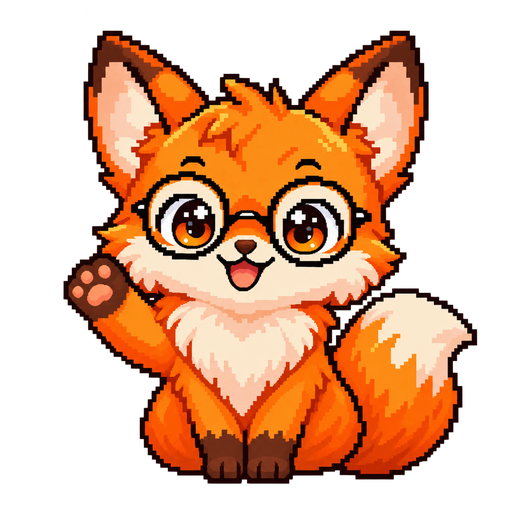
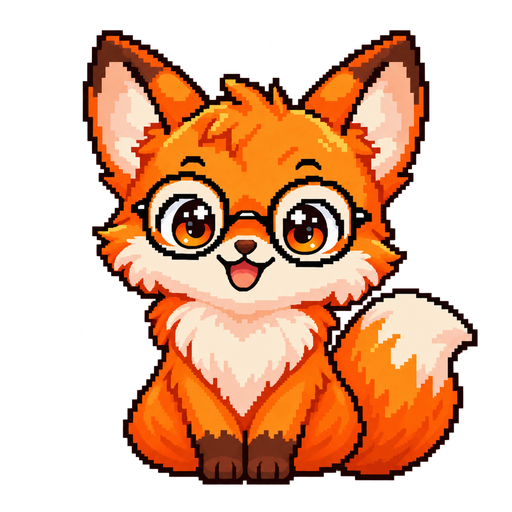
Add evidence-based competitor radar

diff --git a/frontend/src/competitorRadar.tsx b/frontend/src/competitorRadar.tsx
@@ -1,0 +1,106 @@
+import { useMemo, useState } from 'react';
+import { Award, Check, ChevronDown, ExternalLink, Plus, Radar, Scale, ShieldCheck, Sparkles, Trash2, X } from 'lucide-react';
+
+type Language = 'ru' | 'en';
+type Plan = {
+  id: string; company: string; name: string; price: number; vcpu: number; ram: number; disk: number;
+  diskType: string; traffic: string; speed: number; ddos: boolean; backup: boolean; sla: number;
+  support: string; location: string; ipv4Included: boolean; source: string; checkedAt: string;
+};
+
+const seed: Plan[] = [
+  { id: 'aeza-msk-4', company: 'Aéza', name: 'Cloud 4 · Москва', price: 1590, vcpu: 4, ram: 8, disk: 120, diskType: 'NVMe', traffic: 'Безлимитный', speed: 1000, ddos: true, backup: true, sla: 99.9, support: '24/7', location: 'Москва', ipv4Included: true, source: 'https://aeza.net/', checkedAt: '2026-10-25' },
+  { id: 'selectel-cloud-4', company: 'Selectel', name: 'Cloud 4', price: 1890, vcpu: 4, ram: 8, disk: 100, diskType: 'SSD', traffic: '3 ТБ', speed: 500, ddos: true, backup: false, sla: 99.9, support: '24/7', location: 'Москва', ipv4Included: false, source: 'https://selectel.ru/', checkedAt: '2026-10-25' },
+  { id: 'timeweb-pro', company: 'Timeweb Cloud', name: 'Cloud Pro', price: 1499, vcpu: 4, ram: 8, disk: 100, diskType: 'NVMe', traffic: 'Безлимитный', speed: 200, ddos: true, backup: false, sla: 99.9, support: '24/7', location: 'Санкт-Петербург', ipv4Included: true, source: 'https://timeweb.cloud/', checkedAt: '2026-10-25' },
+  { id: 'reg-cloud-4', company: 'REG.RU', name: 'High CPU 4', price: 2110, vcpu: 4, ram: 8, disk: 100, diskType: 'SSD', traffic: 'Безлимитный', speed: 500, ddos: false, backup: true, sla: 99.5, support: 'Рабочее время', location: 'Москва', ipv4Included: true, source: 'https://www.reg.ru/cloud/', checkedAt: '2026-10-25' },
+];
+
+const loadPlans = () => {
+  try { const saved = localStorage.getItem('aeza-competitor-plans-v1'); return saved ? JSON.parse(saved) as Plan[] : seed; }
+  catch { return seed; }
+};
+const pct = (value: number) => `${Math.abs(Math.round(value))}%`;
+
+function score(plan: Plan) {
+  const price = Math.min(100, 100000 / Math.max(plan.price, 1));
+  const capacity = Math.min(100, plan.vcpu * 10 + plan.ram * 4 + plan.disk / 5);
+  const reliability = Math.min(100, (plan.sla - 98) * 35 + (plan.ddos ? 18 : 0) + (plan.backup ? 12 : 0));
+  const service = (plan.support === '24/7' ? 100 : 55) * .7 + (plan.ipv4Included ? 100 : 40) * .3;
+  return Math.round(price * .35 + capacity * .30 + reliability * .20 + service * .10 + 100 * .05);
+}
+
+function argumentsFor(base: Plan, rival: Plan, ru: boolean) {
+  const advantages: string[] = [], gaps: string[] = [];
+  const priceDelta = ((rival.price - base.price) / rival.price) * 100;
+  if (priceDelta > 1) advantages.push(ru ? `Aéza дешевле на ${pct(priceDelta)}: экономия ${rival.price - base.price} ₽ в месяц.` : `Aéza is ${pct(priceDelta)} cheaper, saving ₽${rival.price - base.price} per month.`);
+  if (priceDelta < -1) gaps.push(ru ? `Конкурент дешевле на ${pct(priceDelta)} — аргументируйте разницу сервисом и оснащением.` : `The competitor is ${pct(priceDelta)} cheaper; justify the gap with service and features.`);
+  if (base.disk > rival.disk) advantages.push(ru ? `На ${base.disk - rival.disk} ГБ больше дискового пространства (${base.disk} против ${rival.disk} ГБ).` : `${base.disk - rival.disk} GB more disk space.`);
+  if (base.speed > rival.speed) advantages.push(ru ? `Сетевой порт в ${base.speed / rival.speed}× быстрее: ${base.speed} против ${rival.speed} Мбит/с.` : `${base.speed / rival.speed}× faster network port.`);
+  if (base.backup && !rival.backup) advantages.push(ru ? 'Резервное копирование уже включено; у конкурента его нужно приобретать отдельно.' : 'Backups are included; the competitor requires a separate option.');
+  if (base.ddos && !rival.ddos) advantages.push(ru ? 'Защита от DDoS входит в предложение Aéza.' : 'DDoS protection is included with Aéza.');
+  if (base.ipv4Included && !rival.ipv4Included) advantages.push(ru ? 'IPv4 включён в стоимость — без дополнительного ежемесячного платежа.' : 'IPv4 is included with no extra monthly fee.');
+  if (base.disk < rival.disk) gaps.push(ru ? `У конкурента на ${rival.disk - base.disk} ГБ больше диска.` : `The competitor offers ${rival.disk - base.disk} GB more disk.`);
+  if (base.sla < rival.sla) gaps.push(ru ? `Заявленный SLA конкурента выше на ${(rival.sla - base.sla).toFixed(1)} п.п.` : `The competitor SLA is ${(rival.sla - base.sla).toFixed(1)} pp higher.`);
+  if (!advantages.length) advantages.push(ru ? 'По заполненным параметрам явного преимущества пока нет.' : 'No clear advantage from the entered data yet.');
+  return { advantages, gaps };
+}
+
+export function CompetitorRadar({ language }: { language: Language }) {
+  const ru = language === 'ru';
+  const [plans, setPlans] = useState<Plan[]>(loadPlans);
+  const aezaPlans = plans.filter(item => item.company === 'Aéza');
+  const rivals = plans.filter(item => item.company !== 'Aéza');
+  const [baseId, setBaseId] = useState(aezaPlans[0]?.id || '');
+  const [rivalId, setRivalId] = useState(rivals[0]?.id || '');
+  const [formOpen, setFormOpen] = useState(false);
+  const base = plans.find(item => item.id === baseId) || aezaPlans[0];
+  const rival = plans.find(item => item.id === rivalId) || rivals[0];
+  const analysis = useMemo(() => base && rival ? argumentsFor(base, rival, ru) : null, [base, rival, ru]);
+  const persist = (next: Plan[]) => { setPlans(next); localStorage.setItem('aeza-competitor-plans-v1', JSON.stringify(next)); };
+  const remove = (id: string) => { persist(plans.filter(item => item.id !== id)); if (rivalId === id) setRivalId(rivals.find(item => item.id !== id)?.id || ''); };
+
+  return <div className="radar-page">
+    <section className="radar-summary-grid">
+      <article className="panel radar-kpi accent"><Radar /><span>{ru ? 'Компаний в радаре' : 'Companies tracked'}</span><strong>{new Set(plans.map(p => p.company)).size}</strong><small>{ru ? `${plans.length} тарифов для сравнения` : `${plans.length} plans available`}</small></article>
+      <article className="panel radar-kpi"><Scale /><span>{ru ? 'Критериев' : 'Criteria'}</span><strong>10</strong><small>{ru ? 'Цена, ресурсы, SLA и сервис' : 'Price, resources, SLA and service'}</small></article>
+      <article className="panel radar-kpi"><ShieldCheck /><span>{ru ? 'Источники' : 'Sources'}</span><strong>{plans.filter(p => p.source).length}/{plans.length}</strong><small>{ru ? 'Каждый вывод можно проверить' : 'Every claim can be verified'}</small></article>
+    </section>
+
+    <section className="panel comparison-builder">
+      <div className="panel-heading"><div><h2>{ru ? 'Сравнить предложения' : 'Compare offers'}</h2><p>{ru ? 'Выберите базовый тариф Aéza и предложение конкурента.' : 'Choose an Aéza baseline and a competitor offer.'}</p></div><button className="secondary" onClick={() => setFormOpen(true)}><Plus size={16}/>{ru ? 'Добавить тариф' : 'Add plan'}</button></div>
+      <div className="comparison-selectors">
+        <label><span>Aéza</span><div className="select-shell"><select value={base?.id || ''} onChange={e => setBaseId(e.target.value)}>{aezaPlans.map(p => <option key={p.id} value={p.id}>{p.name}</option>)}</select><ChevronDown /></div></label>
+        <div className="versus">VS</div>
+        <label><span>{ru ? 'Конкурент' : 'Competitor'}</span><div className="select-shell"><select value={rival?.id || ''} onChange={e => setRivalId(e.target.value)}>{rivals.map(p => <option key={p.id} value={p.id}>{p.company} · {p.name}</option>)}</select><ChevronDown /></div></label>
+      </div>
+      {base && rival && <>
+        <div className="plan-heads"><PlanHead plan={base} winner={score(base) >= score(rival)} ru={ru}/><PlanHead plan={rival} winner={score(rival) > score(base)} ru={ru}/></div>
+        <div className="comparison-table" role="table">
+          {[['vCPU', base.vcpu, rival.vcpu], ['RAM', `${base.ram} ГБ`, `${rival.ram} ГБ`], [ru ? 'Диск' : 'Disk', `${base.disk} ГБ ${base.diskType}`, `${rival.disk} ГБ ${rival.diskType}`], [ru ? 'Сеть' : 'Network', `${base.speed} Мбит/с`, `${rival.speed} Мбит/с`], ['DDoS', base.ddos, rival.ddos], [ru ? 'Бэкапы' : 'Backups', base.backup, rival.backup], ['SLA', `${base.sla}%`, `${rival.sla}%`], ['IPv4', base.ipv4Included, rival.ipv4Included]].map(([label, a, b]) => <div className="comparison-row" role="row" key={String(label)}><strong>{label}</strong><Value value={a}/><Value value={b}/></div>)}
+        </div>
+      </>}
+    </section>
+
+    {analysis && base && rival && <section className="argument-grid">
+      <article className="panel argument-card good"><div className="argument-title"><Award/><div><span>{ru ? 'Сильные стороны Aéza' : 'Aéza advantages'}</span><h2>{ru ? 'Аргументы для клиента' : 'Customer talking points'}</h2></div></div>{analysis.advantages.map(item => <p key={item}><Check/>{item}</p>)}</article>
+      <article className="panel argument-card watch"><div className="argument-title"><Sparkles/><div><span>{ru ? 'Честное сравнение' : 'Honest comparison'}</span><h2>{ru ? 'Что важно учесть' : 'Important caveats'}</h2></div></div>{analysis.gaps.length ? analysis.gaps.map(item => <p key={item}><Scale/>{item}</p>) : <p><Check/>{ru ? 'По заполненным данным критичных уступок нет.' : 'No critical gaps in the entered data.'}</p>}<div className="evidence-note">{ru ? 'Вывод построен только по заполненным полям. Перед разговором проверьте дату и источник.' : 'Based only on entered fields. Check the date and source before use.'}</div></article>
+    </section>}
+
+    <section className="panel radar-register"><div className="panel-heading"><div><h2>{ru ? 'Реестр наблюдений' : 'Observation registry'}</h2><p>{ru ? 'Актуальность и первоисточник каждого предложения.' : 'Freshness and primary source for every offer.'}</p></div></div><div className="radar-plans">{plans.map(plan => <article key={plan.id}><div className="company-mark">{plan.company.slice(0,1)}</div><div><strong>{plan.company}</strong><span>{plan.name} · {plan.price.toLocaleString('ru-RU')} ₽/мес.</span><small>{ru ? 'Проверено' : 'Checked'}: {plan.checkedAt}</small></div>{plan.source && <a href={plan.source} target="_blank" rel="noreferrer" aria-label={ru ? 'Открыть источник' : 'Open source'}><ExternalLink/></a>}{plan.company !== 'Aéza' && <button className="icon-btn" onClick={() => remove(plan.id)} aria-label={ru ? 'Удалить тариф' : 'Delete plan'}><Trash2/></button>}</article>)}</div></section>
+    {formOpen && <AddPlan ru={ru} onClose={() => setFormOpen(false)} onSave={plan => { persist([...plans, plan]); setRivalId(plan.id); setFormOpen(false); }}/>} 
+  </div>;
+}
+
+function PlanHead({ plan, winner, ru }: { plan: Plan; winner: boolean; ru: boolean }) {
+  return <article className={winner ? 'winner' : ''}><div><span>{plan.company}</span><h3>{plan.name}</h3></div>{winner && <em><Award/>{ru ? 'Лучшее значение' : 'Best value'}</em>}<strong>{plan.price.toLocaleString('ru-RU')} ₽<small>/{ru ? 'мес.' : 'mo.'}</small></strong><div className="value-score"><i style={{width: `${score(plan)}%`}}/><span>{ru ? 'Индекс ценности' : 'Value score'} {score(plan)}/100</span></div></article>;
+}
+function Value({ value }: { value: string | number | boolean }) { return <span>{typeof value === 'boolean' ? (value ? <Check className="yes"/> : <X className="no"/>) : value}</span>; }
+
+function AddPlan({ ru, onClose, onSave }: { ru: boolean; onClose: () => void; onSave: (plan: Plan) => void }) {
+  const [form, setForm] = useState({ company: '', name: '', price: '1500', vcpu: '4', ram: '8', disk: '100', diskType: 'NVMe', speed: '500', sla: '99.9', location: 'Москва', source: '', ddos: true, backup: false, ipv4Included: true });
+  const change = (key: string, value: string | boolean) => setForm(current => ({...current, [key]: value}));
+  const submit = (event: React.FormEvent) => { event.preventDefault(); onSave({ id: `plan-${Date.now()}`, company: form.company.trim(), name: form.name.trim(), price: Number(form.price), vcpu: Number(form.vcpu), ram: Number(form.ram), disk: Number(form.disk), diskType: form.diskType, traffic: 'Безлимитный', speed: Number(form.speed), ddos: form.ddos, backup: form.backup, sla: Number(form.sla), support: '24/7', location: form.location, ipv4Included: form.ipv4Included, source: form.source.trim(), checkedAt: new Date().toISOString().slice(0,10) }); };
+  return <div className="modal-backdrop" onMouseDown={e => e.target === e.currentTarget && onClose()}><form className="panel radar-form" onSubmit={submit}><div className="panel-heading"><div><h2>{ru ? 'Новый тариф' : 'New plan'}</h2><p>{ru ? 'Укажите только проверенные характеристики.' : 'Enter verified specifications only.'}</p></div><button type="button" className="icon-btn" onClick={onClose}><X/></button></div><div className="radar-form-grid">
+    {[['company', ru ? 'Компания' : 'Company'], ['name', ru ? 'Название тарифа' : 'Plan name'], ['price', ru ? 'Цена, ₽/мес.' : 'Price, ₽/mo.'], ['vcpu', 'vCPU'], ['ram', 'RAM, ГБ'], ['disk', ru ? 'Диск, ГБ' : 'Disk, GB'], ['speed', ru ? 'Скорость, Мбит/с' : 'Speed, Mbps'], ['sla', 'SLA, %'], ['location', ru ? 'Локация' : 'Location'], ['source', ru ? 'Ссылка на источник' : 'Source URL']].map(([key,label]) => <label key={key}><span>{label}</span><input required={['company','name','price'].includes(key)} type={['price','vcpu','ram','disk','speed','sla'].includes(key) ? 'number' : key === 'source' ? 'url' : 'text'} step={key === 'sla' ? '.1' : '1'} value={(form as any)[key]} onChange={e => change(key, e.target.value)}/></label>)}
+  </div><div className="radar-checks">{[['ddos', 'DDoS'], ['backup', ru ? 'Бэкапы' : 'Backups'], ['ipv4Included', 'IPv4']].map(([key,label]) => <label key={key}><input type="checkbox" checked={(form as any)[key]} onChange={e => change(key, e.target.checked)}/><span><Check/>{label}</span></label>)}</div><div className="form-actions"><button type="button" className="secondary" onClick={onClose}>{ru ? 'Отмена' : 'Cancel'}</button><button className="primary"><Plus/>{ru ? 'Добавить и сравнить' : 'Add and compare'}</button></div></form></div>;
+}

diff --git a/frontend/src/style.css b/frontend/src/style.css
@@ -3128,19 +3128,97 @@ nav button,
 .navigation-customers::before {
   transform: translateY(52px);
 }
+.navigation-competitors::before { transform: translateY(104px); }
 .navigation-settings::before {
-  transform: translateY(104px);
-}
-.navigation-source::before {
   transform: translateY(156px);
 }
-.navigation-actions::before {
+.navigation-source::before {
   transform: translateY(208px);
 }
-.navigation-outcomes::before {
+.navigation-actions::before {
   transform: translateY(260px);
 }
+.navigation-outcomes::before {
+  transform: translateY(312px);
+}
 .navigation-account::before { display: none; }
+
+/* Competitive radar */
+.radar-page { display: grid; gap: 18px; }
+.modal-backdrop { position: fixed; inset: 0; z-index: 80; display: grid; place-items: center; padding: 15px; background: #0009; backdrop-filter: blur(5px); }
+.radar-summary-grid { display: grid; grid-template-columns: repeat(3, minmax(0, 1fr)); gap: 14px; }
+.radar-kpi { min-height: 154px; padding: 22px; display: grid; grid-template-columns: 38px 1fr; align-items: center; gap: 4px 12px; }
+.radar-kpi > svg { grid-row: 1 / span 2; width: 38px; height: 38px; padding: 9px; border-radius: 11px; background: var(--primary-container); color: var(--orange); }
+.radar-kpi > span { color: var(--muted); font-size: 13px; }
+.radar-kpi > strong { font-size: 30px; line-height: 1; }
+.radar-kpi > small { grid-column: 1 / -1; color: var(--muted); margin-top: 12px; }
+.radar-kpi.accent { background: linear-gradient(145deg, rgba(255,122,0,.18), rgba(255,122,0,.04)), var(--surface); border-color: rgba(255,122,0,.28); }
+.comparison-builder, .radar-register { padding: 24px; }
+.comparison-selectors { display: grid; grid-template-columns: 1fr 48px 1fr; gap: 16px; align-items: end; margin: 22px 0; }
+.comparison-selectors label > span { display: block; color: var(--muted); font-size: 12px; font-weight: 700; text-transform: uppercase; letter-spacing: .08em; margin-bottom: 8px; }
+.select-shell { position: relative; }
+.select-shell select { width: 100%; appearance: none; background: var(--surface-container); color: var(--ink); border: 1px solid var(--border); border-radius: 12px; padding: 13px 42px 13px 14px; font: inherit; }
+.select-shell svg { position: absolute; right: 13px; top: 50%; width: 17px; transform: translateY(-50%); pointer-events: none; color: var(--muted); }
+.versus { display: grid; place-items: center; height: 47px; color: var(--orange); font-weight: 850; }
+.plan-heads { display: grid; grid-template-columns: 1fr 1fr; gap: 12px; margin-top: 10px; }
+.plan-heads article { border: 1px solid var(--border); background: var(--surface); border-radius: 16px; padding: 18px; position: relative; }
+.plan-heads article.winner { border-color: rgba(65,174,132,.55); box-shadow: inset 0 0 0 1px rgba(65,174,132,.12); }
+.plan-heads article > div:first-child span { color: var(--orange); font-size: 12px; font-weight: 800; text-transform: uppercase; }
+.plan-heads h3 { margin: 4px 0 13px; font-size: 18px; }
+.plan-heads article > strong { font-size: 25px; }
+.plan-heads article > strong small { color: var(--muted); font-size: 12px; margin-left: 3px; }
+.plan-heads em { position: absolute; right: 14px; top: 14px; display: flex; align-items: center; gap: 5px; color: #43a887; font-size: 11px; font-style: normal; font-weight: 750; }
+.plan-heads em svg { width: 14px; }
+.value-score { height: 7px; background: var(--border); border-radius: 999px; margin-top: 16px; position: relative; }
+.value-score i { display: block; height: 100%; border-radius: inherit; background: linear-gradient(90deg, var(--orange), #43a887); }
+.value-score span { position: absolute; top: 11px; left: 0; color: var(--muted); font-size: 10px; }
+.comparison-table { margin-top: 29px; border: 1px solid var(--border); border-radius: 14px; overflow: hidden; }
+.comparison-row { display: grid; grid-template-columns: minmax(120px, .7fr) 1fr 1fr; align-items: center; min-height: 48px; border-bottom: 1px solid var(--border); }
+.comparison-row:last-child { border-bottom: 0; }
+.comparison-row > * { padding: 11px 16px; }
+.comparison-row > strong { color: var(--muted); font-size: 12px; }
+.comparison-row > span { border-left: 1px solid var(--border); font-weight: 650; display: flex; align-items: center; min-height: 48px; }
+.comparison-row svg { width: 17px; }
+.comparison-row .yes { color: #43a887; } .comparison-row .no { color: #ec6459; }
+.argument-grid { display: grid; grid-template-columns: 1fr 1fr; gap: 14px; }
+.argument-card { padding: 23px; }
+.argument-title { display: flex; align-items: center; gap: 12px; margin-bottom: 17px; }
+.argument-title > svg { width: 38px; height: 38px; padding: 9px; border-radius: 11px; }
+.argument-card.good .argument-title > svg { color: #43a887; background: rgba(67,168,135,.12); }
+.argument-card.watch .argument-title > svg { color: var(--orange); background: var(--primary-container); }
+.argument-title span { color: var(--muted); font-size: 11px; text-transform: uppercase; letter-spacing: .06em; }
+.argument-title h2 { margin: 3px 0 0; font-size: 18px; }
+.argument-card > p { display: flex; gap: 10px; align-items: flex-start; border-top: 1px solid var(--border); margin: 0; padding: 13px 0; font-size: 13px; line-height: 1.45; }
+.argument-card > p svg { width: 16px; min-width: 16px; color: #43a887; }
+.argument-card.watch > p svg { color: var(--orange); }
+.evidence-note { border-radius: 10px; background: var(--surface); color: var(--muted); padding: 12px; font-size: 11px; line-height: 1.45; }
+.radar-plans { display: grid; grid-template-columns: repeat(2, minmax(0,1fr)); gap: 10px; margin-top: 18px; }
+.radar-plans article { display: grid; grid-template-columns: 40px 1fr auto auto; align-items: center; gap: 11px; padding: 13px; background: var(--surface-container); border: 1px solid var(--border); border-radius: 13px; }
+.company-mark { display: grid; place-items: center; width: 40px; height: 40px; border-radius: 11px; color: var(--orange); background: var(--primary-container); font-weight: 900; }
+.radar-plans article > div:nth-child(2) { display: grid; gap: 2px; min-width: 0; }
+.radar-plans article span, .radar-plans article small { color: var(--muted); white-space: nowrap; overflow: hidden; text-overflow: ellipsis; }
+.radar-plans article span { font-size: 12px; }.radar-plans article small { font-size: 10px; }
+.radar-plans a { color: var(--muted); }.radar-plans svg { width: 17px; }
+.radar-form { width: min(760px, calc(100vw - 30px)); max-height: min(840px, calc(100vh - 30px)); overflow: auto; padding: 24px; }
+.radar-form-grid { display: grid; grid-template-columns: repeat(2,minmax(0,1fr)); gap: 14px; }
+.radar-form-grid label { display: grid; gap: 7px; }.radar-form-grid label span { font-size: 12px; font-weight: 700; }
+.radar-form-grid input { width: 100%; box-sizing: border-box; background: var(--surface-container); color: var(--ink); border: 1px solid var(--border); border-radius: 11px; padding: 12px; font: inherit; }
+.radar-checks { display: flex; flex-wrap: wrap; gap: 10px; margin: 18px 0; }
+.radar-checks input { position: absolute; opacity: 0; }.radar-checks label span { display: flex; align-items: center; gap: 7px; padding: 9px 13px; border: 1px solid var(--border); border-radius: 999px; color: var(--muted); cursor: pointer; }.radar-checks svg { width: 15px; }.radar-checks input:checked + span { color: #43a887; border-color: rgba(67,168,135,.5); background: rgba(67,168,135,.08); }
+
+@media (max-width: 900px) {
+  .radar-summary-grid { grid-template-columns: 1fr; }
+  .radar-kpi { min-height: auto; }
+  .argument-grid, .radar-plans { grid-template-columns: 1fr; }
+}
+@media (max-width: 620px) {
+  .comparison-builder, .radar-register, .argument-card { padding: 16px; }
+  .comparison-selectors { grid-template-columns: 1fr; gap: 9px; }.versus { height: 24px; }
+  .plan-heads { grid-template-columns: 1fr; }
+  .comparison-row { grid-template-columns: 92px 1fr 1fr; font-size: 11px; }.comparison-row > * { padding: 9px 8px; }
+  .radar-form-grid { grid-template-columns: 1fr; }
+  .radar-plans article { grid-template-columns: 36px 1fr auto auto; }.company-mark { width: 36px; height: 36px; }
+}
 .sidebar-logout {
   display: flex;
   align-items: center;

diff --git a/frontend/src/navigation.tsx b/frontend/src/navigation.tsx
@@ -3,7 +3,7 @@ import { useQuery } from '@tanstack/react-query';
 import { ArrowLeft, ArrowRight, BookOpen, Check, ChevronRight, Search, Sparkles, X } from 'lucide-react';
 import { api } from './api';
 
-export type AppView = 'overview' | 'customers' | 'settings' | 'source' | 'actions' | 'outcomes' | 'account' | 'appearance' | 'help';
+export type AppView = 'overview' | 'customers' | 'competitors' | 'settings' | 'source' | 'actions' | 'outcomes' | 'account' | 'appearance' | 'help';
 export type HelpTarget = AppView | 'search' | 'scenario' | 'horizon';
 type Language = 'ru' | 'en';
 type Copy = { ru: string; en: string };
@@ -14,6 +14,7 @@ const copy = (ru: string, en: string): Copy => ({ ru, en });
 export const HELP_ENTRIES: Entry[] = [
   { id: 'overview', target: 'overview', title: copy('Обзор рисков', 'Risk overview'), description: copy('Главные показатели, распределение риска и график будущих платежей.', 'Key metrics, risk distribution and the payment forecast.'), hint: copy('Начните здесь: проверьте число клиентов с высоким риском и сумму под риском.', 'Start here: review high-risk customers and the amount at risk.') },
   { id: 'customers', target: 'customers', title: copy('Клиенты', 'Customers'), description: copy('Рейтинг клиентов, причины оценки, услуги и карточки с расчётом «что если».', 'Customer ranking, scoring reasons, services and profiles with what-if calculations.'), hint: copy('Найдите клиента по email или ID; новый клиент добавляется кнопкой над таблицей.', 'Find a customer by email or ID; add one with the button above the table.') },
+  { id: 'competitors', target: 'competitors', title: copy('Конкурентный радар', 'Competitive radar'), description: copy('Сравнение облачных тарифов, преимуществ и подтверждённых аргументов.', 'Cloud plan comparison, advantages and evidence-backed talking points.'), hint: copy('Выберите тариф конкурента и сравните его с предложением Aéza.', 'Choose a competitor plan and compare it with an Aéza offer.') },
   { id: 'actions', target: 'actions', title: copy('Работа с клиентами', 'Customer work'), description: copy('Очередь контактов, заметки, статусы и итог общения.', 'Outreach queue, notes, statuses and outcomes.'), hint: copy('Откройте карточку клиента и нажмите «Добавить в работу».', 'Open a customer profile and choose “Add to work queue”.') },
   { id: 'outcomes', target: 'outcomes', title: copy('Результаты', 'Outcomes'), description: copy('Отмеченные продления и отказы после контакта.', 'Recorded renewals and non-renewals after outreach.'), hint: copy('Итог фиксируется вручную в разделе работы с клиентами.', 'Record outcomes manually in Customer work.') },
   { id: 'settings', target: 'settings', title: copy('Модель риска', 'Risk model'), description: copy('Веса признаков, пороги и параметры расчёта.', 'Feature weights, thresholds and calculation settings.'), hint: copy('После сохранения параметров оценки клиентов пересчитываются.', 'Customer scores are recalculated when settings are saved.') },

diff --git a/frontend/src/main.tsx b/frontend/src/main.tsx
@@ -46,10 +46,12 @@ import {
   Plus,
   Palette,
   Globe,
+  Radar,
 } from "lucide-react";
 import { api, ApiError, setCSRF, levels, money, date, Level, setDisplayPreferences, displayFromEuro, euroCentsFromDisplay, currencySymbol, formatReason, Currency, Language, FxRates } from "./api";
 import { installTranslations } from "./i18n";
 import { GlobalSearch, HelpCenter, GuideDialog, GUIDE_ENTRIES, AppView, HelpTarget } from './navigation';
+import { CompetitorRadar } from './competitorRadar';
 import "./style.css";
 
 const client = new QueryClient({
@@ -688,6 +690,7 @@ function App() {
             [
               ["overview", LayoutDashboard, "Обзор рисков"],
               ["customers", Users, "Клиенты"],
+              ["competitors", Radar, "Конкурентный радар"],
               ["settings", SlidersHorizontal, "Модель риска"],
               ["source", Database, "Источники данных"],
               ["actions", ClipboardList, "Работа с клиентами"],
@@ -743,6 +746,7 @@ function App() {
                 {
                   overview: "Обзор рисков",
                   customers: "Клиенты",
+                  competitors: "Конкурентный радар",
                   settings: "Модель риска",
                   source: "Источники данных",
                   actions: "Работа с клиентами",
@@ -794,6 +798,7 @@ function App() {
                   {
                     overview: "Обзор рисков",
                     customers: "Клиенты",
+                    competitors: "Конкурентный радар",
                     settings: "Модель риска",
                     source: "Источники данных",
                     actions: "Работа с клиентами",
@@ -809,6 +814,7 @@ function App() {
                   {
                     overview: "Вовремя заметить риск. Сохранить клиента.",
                     customers: "Приоритеты для вашей следующей коммуникации.",
+                    competitors: "Сравнение тарифов и аргументы, подтверждённые данными.",
                     settings: "Прозрачные правила. Управляемые коэффициенты.",
                     source: "Исходные данные и качество прогноза.",
                     actions: "Контакты и результаты работы с клиентами.",
@@ -865,6 +871,7 @@ function App() {
               <Loading />
             ))}
           {view === "customers" && <CustomerTable onSelect={openCustomer} sourceVersion={summary.data?.source_version} onCreated={(id) => { qc.invalidateQueries(); setToast(`Клиент #${id} добавлен в реестр`); openCustomer(id); }} />}
+          {view === "competitors" && <CompetitorRadar language={language} />}
           {view === "appearance" && <SitePreferences theme={theme} onTheme={setTheme} currency={currency} onCurrency={setCurrency} language={language} onLanguage={setLanguage} fx={fx.data} onRefresh={() => qc.invalidateQueries({ queryKey: ["fx-rates"] })} assistantEnabled={assistantEnabled} onAssistant={setAssistantEnabled} onStartGuide={startGuide} />}
           {view === "help" && <HelpCenter language={language} onGo={goToHelpTarget} onStartGuide={startGuide} />}
           {view === "settings" && <ModelSettings onSuccess={setToast} />}

diff --git a/frontend/src/i18n.ts b/frontend/src/i18n.ts
@@ -1,13 +1,14 @@
 /** Interface copy for the hackathon prototype. Customer data is never translated. */
 const pairs: Record<string, string> = {
   'АНАЛИТИКА': 'ANALYTICS', 'АНАЛИТИКА УДЕРЖАНИЯ': 'RETENTION ANALYTICS',
-  'Аналитика': 'Analytics', 'Обзор рисков': 'Risk overview', 'Клиенты': 'Customers',
+  'Аналитика': 'Analytics', 'Обзор рисков': 'Risk overview', 'Клиенты': 'Customers', 'Конкурентный радар': 'Competitive radar',
   'Модель риска': 'Risk model', 'Источники данных': 'Data sources', 'Работа с клиентами': 'Customer work',
   'Результаты': 'Outcomes', 'Аккаунт': 'Account', 'Настройки аккаунта': 'Account settings',
   'Настройки сайта': 'Site settings', 'Выйти': 'Sign out', 'Меню аккаунта': 'Account menu',
   'Справочник': 'Guide', 'Ответы по каждому разделу и быстрые переходы.': 'Help for every section and quick links.',
   'Вовремя заметить риск. Сохранить клиента.': 'Spot risk in time. Keep the customer.',
   'Приоритеты для вашей следующей коммуникации.': 'Priorities for your next outreach.',
+  'Сравнение тарифов и аргументы, подтверждённые данными.': 'Plan comparison and evidence-backed talking points.',
   'Прозрачные правила. Управляемые коэффициенты.': 'Transparent rules. Adjustable weights.',
   'Исходные данные и качество прогноза.': 'Source data and forecast quality.',
   'Контакты и результаты работы с клиентами.': 'Outreach and customer outcomes.',
